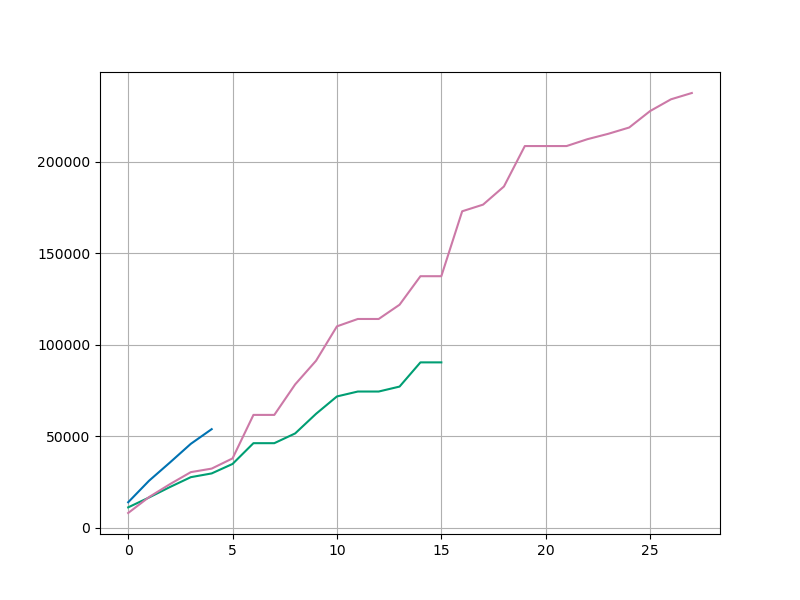
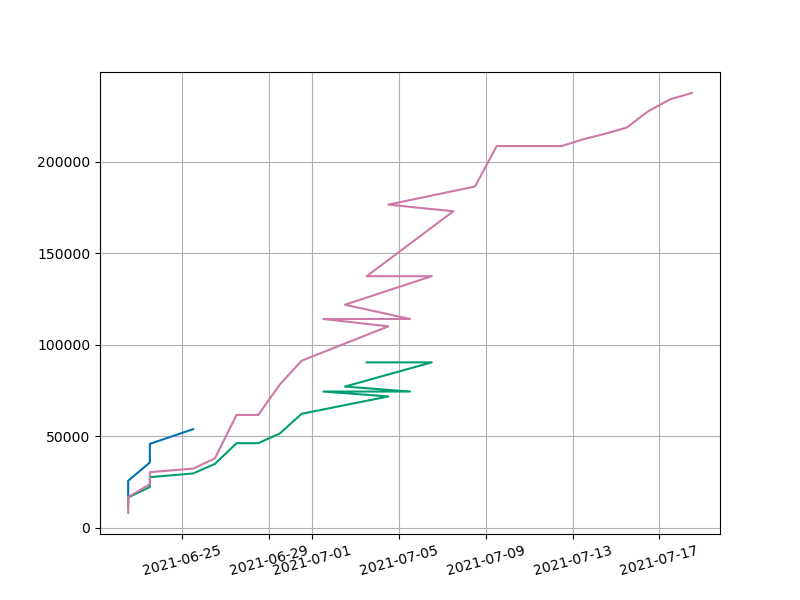
stats.py plots all use dateTime now
updated the plotSamplingTimes function in stats.py to use dateTime. Now all of the plots currently present in the script use dateTime (if relevant)

Note: plotSamplingTimes is still kinda busted

diff --git a/stats.py b/stats.py
@@ -599,9 +599,9 @@ def plotUnfit(df, models= args.models, save=True): ## assumes use of dataframe
         fracValue =  pd.Series(value).rolling(7).mean()/pd.Series(allfit['Total']).rolling(7).mean()
         ax.plot(dateList, fracValue, label=key) if key != 'Total' else None
     ax.set_xlabel("Date")
+    plt.xticks(rotation=15)
     ax.set_ylabel('Unfit Ratio')
     #ax.set_title('Fraction of Unfit Candidates to Total \n (One Week Rolling Average)') ## should these have titles?
-    plt.xticks(rotation=15)
     ax.legend()
     plt.savefig(plotDir("fracDailyUnfitRolling")) if save else None
     plt.clf()
@@ -653,10 +653,13 @@ def plotSamplingTimes(df, models=args.models, save=True):
     save: boolean to determine whether to save the figure or not
     '''
 
-    ## get the fit time data
-    dayList = df['day'].unique() ## oh, may need to switch to dayCount when plotting later
-    dayCount = np.arange(len(dayList)) ## might be better to switch to start day count or something
-
+    ## get count of days and unique dates for plotting
+    dayList = df['day'].unique()
+    dateIdx = df['day'].drop_duplicates().index
+    dateList = df['stopDate'][dateIdx] ## this is the date of the last observations made for the fitting
+    print('dayList: {}'.format(dayList)) if args.verbose else None
+    print('dateList: {}\n'.format(dateList)) if args.verbose else None
+    
     ## create a dictionary of fit times for each model
     fitTime = {}
     for model in models: ## won't iterate over Total (which is good)
@@ -725,9 +728,10 @@ def plotSamplingTimes(df, models=args.models, save=True):
     plt.savefig(plotDir("fitTimeHistModel")) if save else None
     plt.clf()
     
+    ''' ## Currently not Functional
     ## plot a histogram with stacked bars for each model
     #fitTimePrime = {key:value for key, value in fitTime.items() if key != 'Total'} ## remove the total fit time for fitTimePrime
-    fitTimePrime = np.array([value.ravel() for key, value in fitTime.items() if key != 'Total'])
+    fitTimePrime = np.array([value.ravel() for key, value in fitTime.items() if key != 'Total']).T
     print('shape of fitTimePrime: {}'.format(fitTimePrime.shape)) if args.verbose else None
     fitTime_df = pd.DataFrame(fitTimePrime, columns=models) ## create a dataframe for the fit times
     print('fitTime_df: {}'.format(fitTime_df)) if args.verbose else None
@@ -741,6 +745,7 @@ def plotSamplingTimes(df, models=args.models, save=True):
     ax.legend()
     plt.savefig(plotDir("fitTimeHistModelStacked")) if save else None
     plt.clf()
+    '''
 
     ## plot histogram of total daily fit time
     totalDailyFitTime = np.concatenate(fitTime['Total'],axis=None).ravel()
@@ -755,9 +760,10 @@ def plotSamplingTimes(df, models=args.models, save=True):
     ## plot the daily average fit time for each model
     fig, ax = plt.subplots(figsize=(8,6), facecolor='white')
     for key, value in fitTime.items(): 
-        meanFitTime = [np.mean(fitDay) for fitDay in fitTime[key]]
-        ax.plot(dayCount, meanFitTime, label=key) ## should be right axis?
-    ax.set_xlabel("Days Since Start")
+        meanFitTime = [np.mean(fitDay) for fitDay in value]
+        ax.plot(dateList, meanFitTime, label=key) ## should be right axis?
+    ax.set_xlabel("Date")
+    plt.xticks(rotation=15)
     ax.set_ylabel('Sampling Time (s)')
     #ax.set_title('Average Daily Sampling Time') ## should these have titles?
     ax.legend()
@@ -767,9 +773,10 @@ def plotSamplingTimes(df, models=args.models, save=True):
     ## plot the daily median fit time for each model
     fig, ax = plt.subplots(figsize=(8,6), facecolor='white')
     for key, value in fitTime.items():
-        medianFitTime = [np.median(fitDay) for fitDay in fitTime[key]]
-        plt.plot(dayCount, medianFitTime, label=key)
-    ax.set_xlabel("Days Since Start")
+        medianFitTime = [np.median(fitDay) for fitDay in value]
+        plt.plot(dateList, medianFitTime, label=key)
+    ax.set_xlabel("Date")
+    plt.xticks(rotation=15)
     ax.set_ylabel('Sampling Time (s)')
     #ax.set_title('Median Daily Sampling Time') ## should these have titles?
     ax.legend()
@@ -778,9 +785,10 @@ def plotSamplingTimes(df, models=args.models, save=True):
 
     ## plot the daily median fit time for each model (rolling average)
     for key, value in fitTime.items():
-        medianFitTime = pd.Series([np.median(fitDay) for fitDay in fitTime[key]])
-        plt.plot(dayCount, medianFitTime.rolling(7).mean(), label=key)
-    ax.set_xlabel("Days Since Start")
+        medianFitTime = pd.Series([np.median(fitDay) for fitDay in value])
+        plt.plot(dateList, medianFitTime.rolling(7).mean(), label=key)
+    ax.set_xlabel("Date")
+    plt.xticks(rotation=15)
     ax.set_ylabel('Sampling Time (s)')
     #ax.set_title('Median Daily Sampling Time \n (One Week Rolling Average)') ## should these have titles?
     ax.legend()
@@ -789,9 +797,10 @@ def plotSamplingTimes(df, models=args.models, save=True):
 
     ## plot the cumulative daily fit time for each model
     for key, value in fitTime.items():
-        cumFitTime = np.cumsum([np.sum(fitDay) for fitDay in fitTime[key]])
-        plt.plot(dayCount, cumFitTime, label=key) 
-    ax.set_xlabel("Days Since Start")
+        cumFitTime = np.cumsum([np.sum(fitDay) for fitDay in value])
+        plt.plot(dateList, cumFitTime, label=key) 
+    ax.set_xlabel("Date")
+    plt.xticks(rotation=15)
     ax.set_ylabel('Sampling Time (s)')
     #ax.set_title('Cumulative Sampling Time') ## should these have titles?
     ax.legend()
